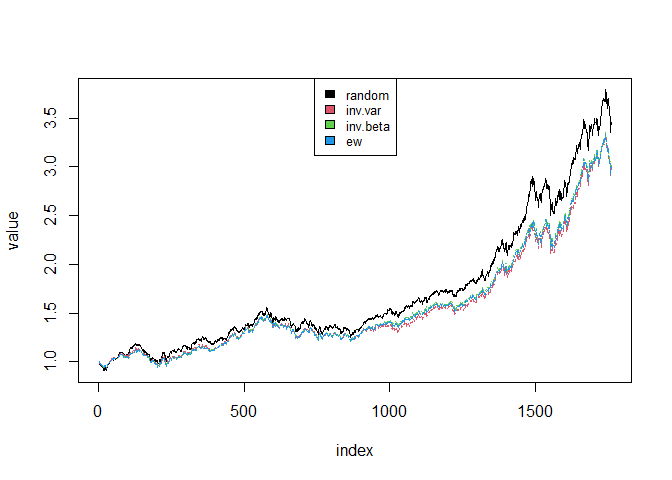
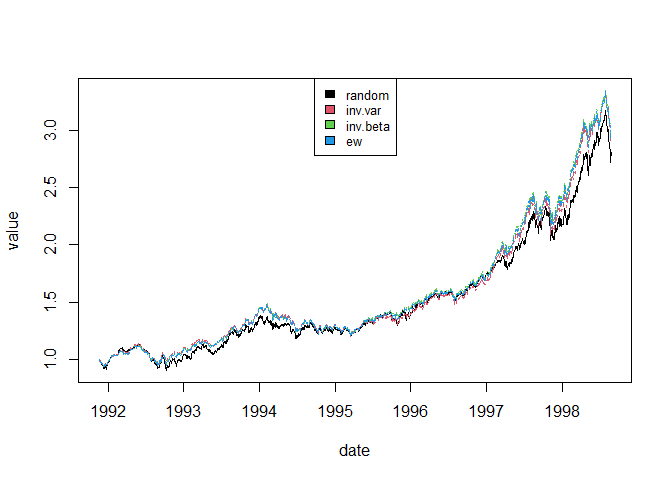
added dates to the plots

diff --git a/README.md b/README.md
@@ -12,14 +12,10 @@ using
 
 ``` r
 library(reticulate)
-```
-
-    ## Warning: package 'reticulate' was built under R version 4.0.5
-
-``` r
 source_python("portfoliopy.py")
 prices=as.data.frame(EuStockMarkets)
-matplot(x=1:nrow(prices),y=apply(prices,2,function(x)x/x[1]),col=1:ncol(prices),type="l",
+dates=as.vector(time(EuStockMarkets))
+matplot(x=dates,y=apply(prices,2,function(x)x/x[1]),col=1:ncol(prices),type="l",
         xlab="index",ylab="value")
 legend("top", colnames(prices),col=seq_len(ncol(prices)),cex=0.8,fill=seq_len(ncol(prices)))
 ```
@@ -49,7 +45,7 @@ inv.beta.w<-sreturns2wealth(inv.beta.sr)
 
 ports<-cbind(random=rand.w,inv.var=inv.var.w,inv.beta=inv.beta.w,
              ew=tail(ew.w,length(rand.w))/tail(ew.w,length(rand.w))[1])
-matplot(x=1:length(rand.w),y=ports,col=1:ncol(ports),type="l",xlab="index",ylab="value")
+matplot(x=tail(dates,length(rand.w)),y=ports,col=1:ncol(ports),type="l",xlab="date",ylab="value")
 
 legend("top", colnames(ports),col=seq_len(ncol(ports)),cex=0.8,fill=seq_len(ncol(ports)))
 ```
@@ -59,4 +55,4 @@ legend("top", colnames(ports),col=seq_len(ncol(ports)),cex=0.8,fill=seq_len(ncol
 They all perform pretty much identically (although the random portfolios
 obviously sometimes do better or worse). There is lots of room for more
 tests with more assets, over longer time periods, and more sophisticated
-strategies.
+strategies using these backtesting functions.
